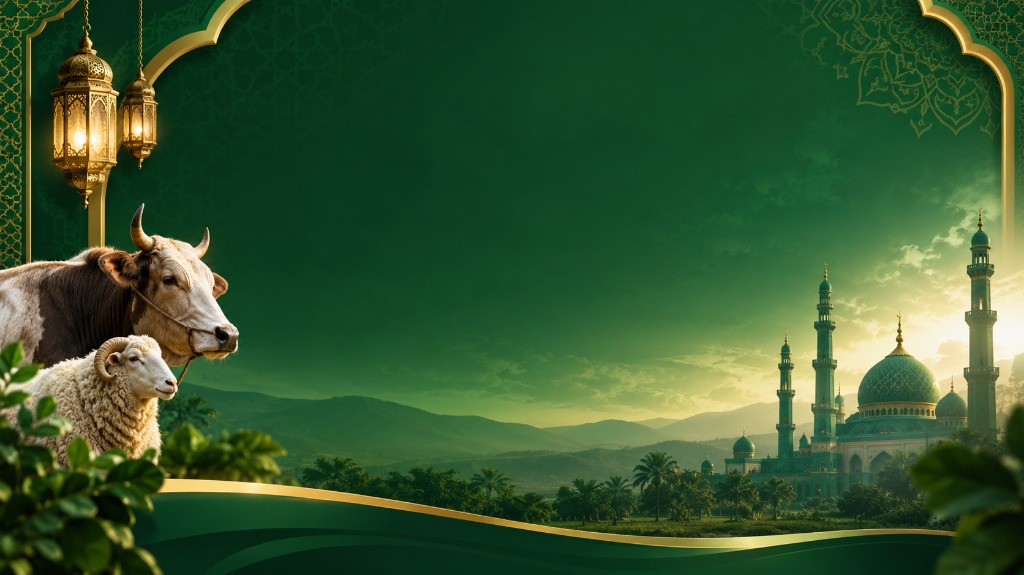
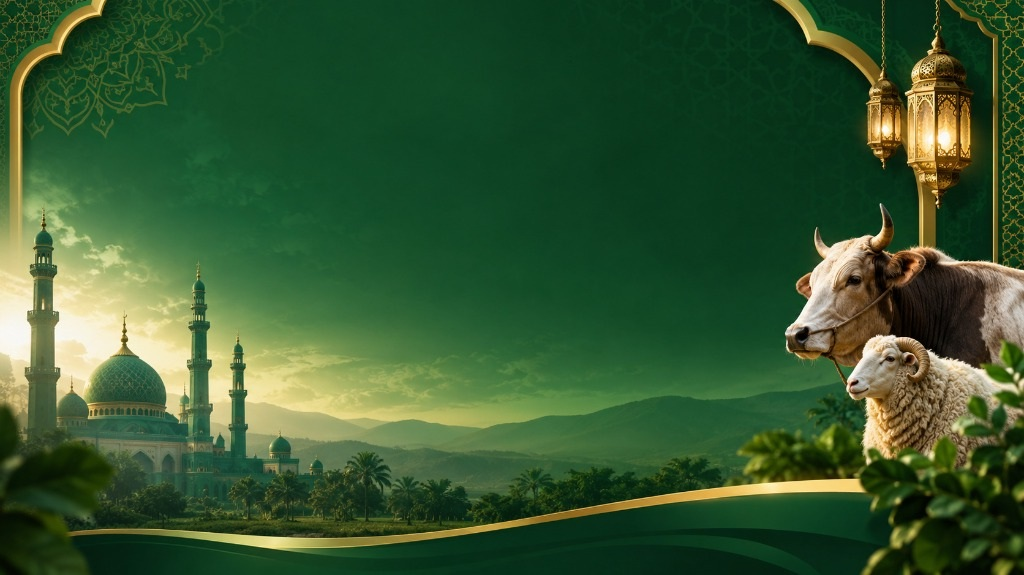
fix(idul-adha): balik posisi background secara horizontal agar hewan kurban tampak utuh di kanan dan masjid di kiri

diff --git a/resources/views/idul-adha-embed.blade.php b/resources/views/idul-adha-embed.blade.php
@@ -185,8 +185,8 @@
 			display: flex;
 			align-items: center;
 			justify-content: center;
-			gap: 24px;
-			max-width: 1080px;
+			gap: 22px;
+			max-width: 1000px;
 			width: 100%;
 			margin: 0 auto;
 			flex: 1;
@@ -373,9 +373,9 @@
 			color: #ffffff;
 		}
 
-		/* Custom Theme Background Spesifik Sholat Idul Adha */
+		/* Custom Theme Background Spesifik Sholat Idul Adha (Flipped: Hewan di Kanan, Masjid di Kiri) */
 		.display-background {
-			background-image: url('{{ asset("image/display/background/bg_idul_adha.jpg") }}') !important;
+			background-image: url('{{ asset("image/display/background/bg_idul_adha.jpg") }}?v={{ time() }}') !important;
 			background-position: center center !important;
 			background-repeat: no-repeat !important;
 			background-size: cover !important;
@@ -547,11 +547,11 @@
 		setInterval(updateDateTime, 1000);
 	</script>
 
-	<!-- Script Background Khusus Idul Adha (Gambar Pilihan DKM) -->
+	<!-- Script Background Khusus Idul Adha (Gambar Pilihan DKM - Hewan di Kanan) -->
 	<script>
 		const bgElement = document.querySelector('.display-background') || document.body;
 		if (bgElement) {
-			bgElement.style.setProperty('background-image', "url('{{ asset('image/display/background/bg_idul_adha.jpg') }}')", 'important');
+			bgElement.style.setProperty('background-image', "url('{{ asset('image/display/background/bg_idul_adha.jpg') }}?v={{ time() }}')", 'important');
 			bgElement.style.setProperty('background-size', 'cover', 'important');
 			bgElement.style.setProperty('background-position', 'center center', 'important');
 			bgElement.style.setProperty('background-repeat', 'no-repeat', 'important');

diff --git a/resources/views/idul-fitri-embed.blade.php b/resources/views/idul-fitri-embed.blade.php
@@ -375,7 +375,7 @@
 
 		/* Custom Theme Background Spesifik Sholat Idul Fitri */
 		.display-background {
-			background-image: url('{{ asset("image/display/background/bg_idul_fitri.jpg") }}') !important;
+			background-image: url('{{ asset("image/display/background/bg_idul_fitri.jpg") }}?v={{ time() }}') !important;
 			background-position: center center !important;
 			background-repeat: no-repeat !important;
 			background-size: cover !important;
@@ -551,7 +551,7 @@
 	<script>
 		const bgElement = document.querySelector('.display-background') || document.body;
 		if (bgElement) {
-			bgElement.style.setProperty('background-image', "url('{{ asset('image/display/background/bg_idul_fitri.jpg') }}')", 'important');
+			bgElement.style.setProperty('background-image', "url('{{ asset('image/display/background/bg_idul_fitri.jpg') }}?v={{ time() }}')", 'important');
 			bgElement.style.setProperty('background-size', 'cover', 'important');
 			bgElement.style.setProperty('background-position', 'center center', 'important');
 			bgElement.style.setProperty('background-repeat', 'no-repeat', 'important');
